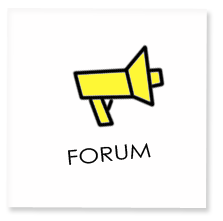
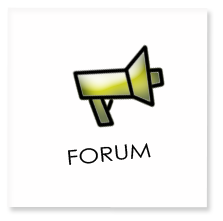
- updated images - added loading indicator

Changed region(s): [[0.3229, 0.2172, 0.7534, 0.5973], [0.5919, 0.4072, 0.9417, 0.9502], [0.3767, 0.9231, 0.4843, 0.9502]]

diff --git a/lib/JooseIt/Router.js b/lib/JooseIt/Router.js
@@ -2,7 +2,7 @@ Class('JooseIt.Router', {
     
     isa : 'Symbie.Router',
     
-    does : [ 'SymbieX.History.Router', 'SymbieX.Template.Shotenjin.Router' ],
+    does : [ 'SymbieX.History.Router', 'SymbieX.Template.Shotenjin.Router', 'SymbieX.LoadIndicator' ],
     
     routes : {
         
